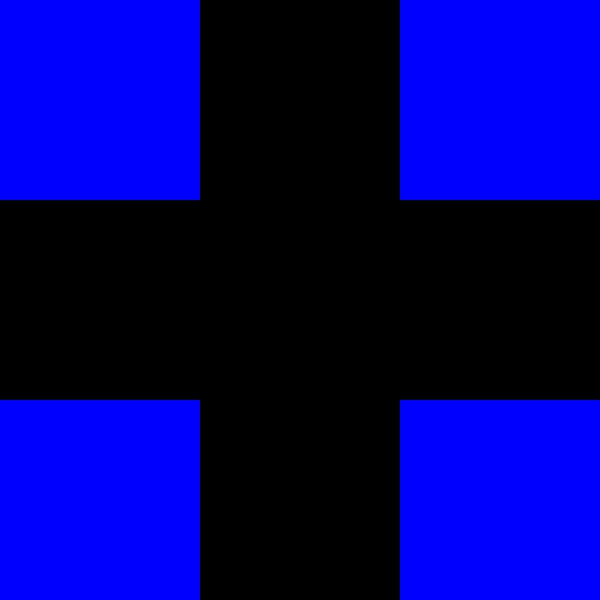
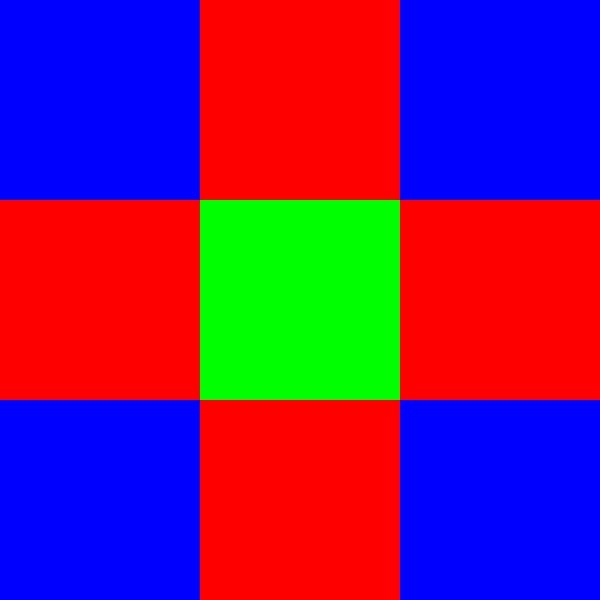
Draw all 9 panes, each type (center, corner or side) with diffent colors

diff --git a/main.go b/main.go
@@ -31,6 +31,21 @@ func drawCorner(dc *gg.Context) {
 
 }
 
+func drawSide(dc *gg.Context) {
+	// Draw top
+	drawPane(dc, 200, 0, 1, 0, 0)
+	// Draw right
+	drawPane(dc, 400, 200, 1, 0, 0)
+	// Draw bottom
+	drawPane(dc, 200, 400, 1, 0, 0)
+	// Draw left
+	drawPane(dc, 0, 200, 1, 0, 0)
+}
+
+func drawCenter(dc *gg.Context) {
+	drawPane(dc, 200, 200, 0, 1, 0)
+}
+
 func main() {
 	// Generate MD5
 	text := getMD5([]byte("teste"))
@@ -43,7 +58,9 @@ func main() {
 	dc := gg.NewContext(Size, Size)
 
 	drawCorner(dc)
+	drawSide(dc)
+	drawCenter(dc)
 
-	dc.SaveJPG("teste.jpg", 100)
+	dc.SavePNG("teste.png")
 
 }
